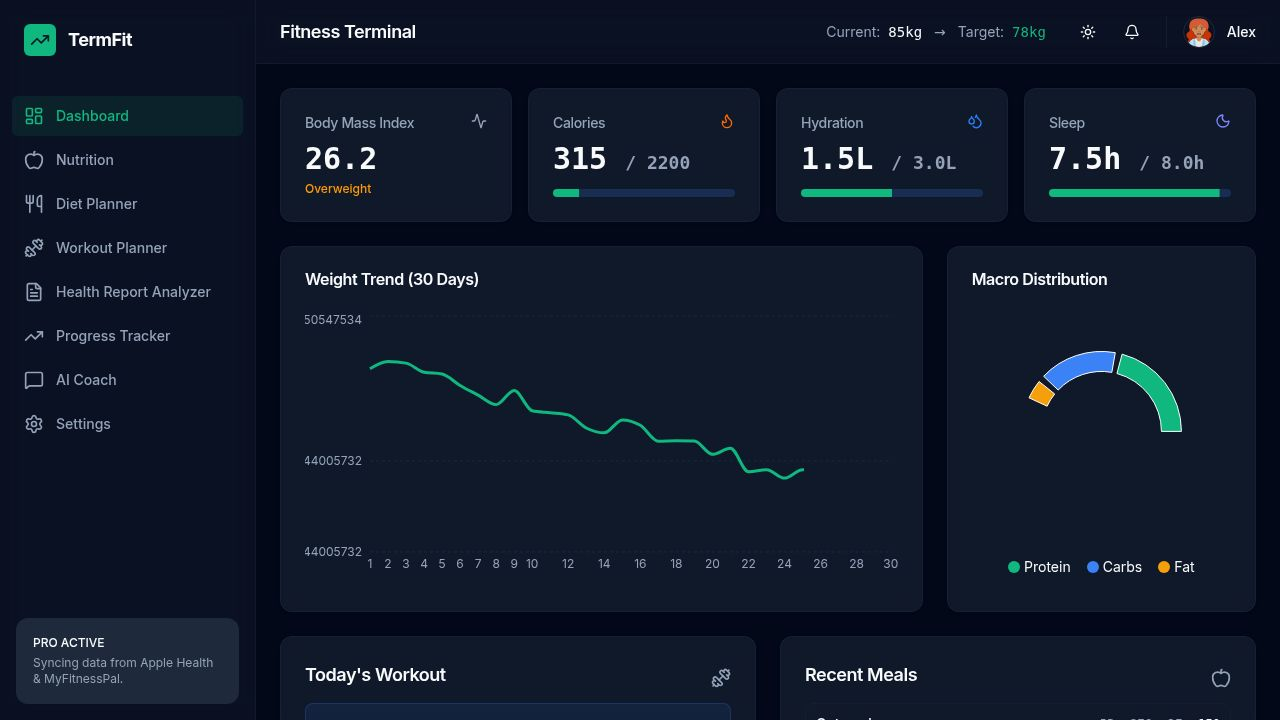
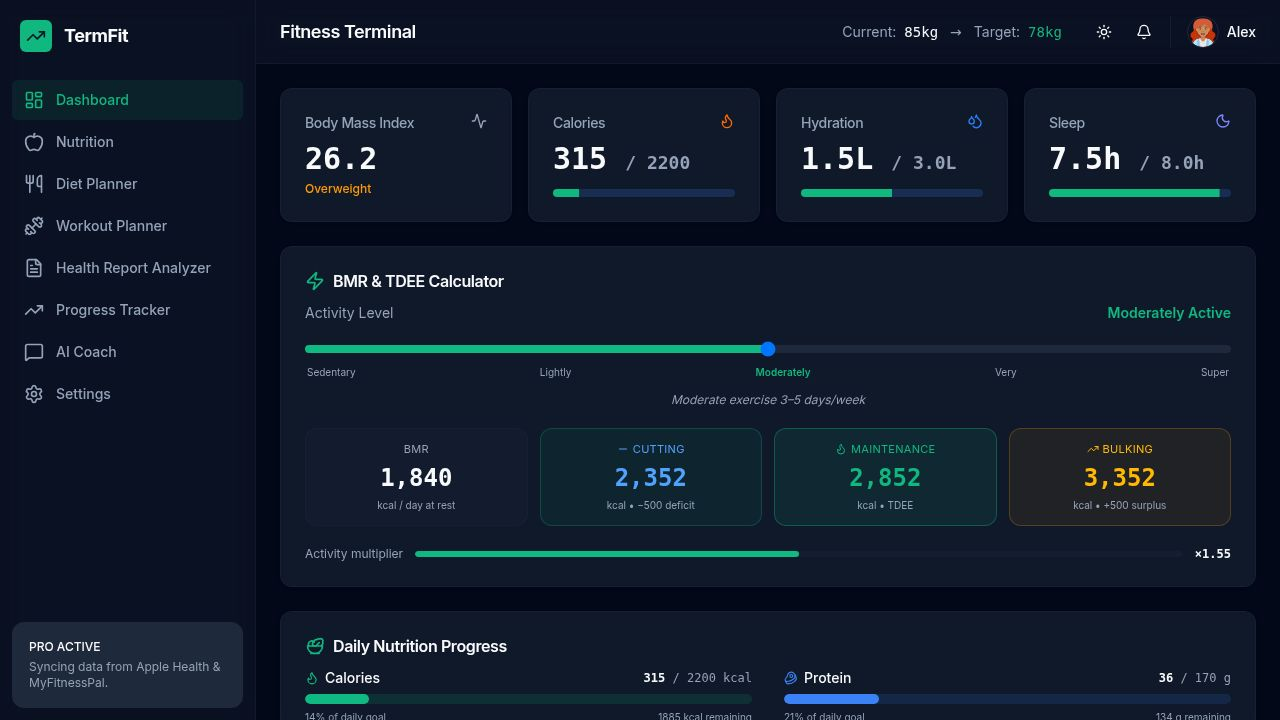
Adapt fitness dashboard build and deployment for Vercel compatibility
Update Vite configuration to gracefully handle Vercel environment variables and add a vercel.json file to define build and routing settings.

Replit-Commit-Author: Agent
Replit-Commit-Session-Id: 559fc1bd-0e06-4ad8-ae95-e0d435bf917b
Replit-Commit-Checkpoint-Type: full_checkpoint
Replit-Commit-Event-Id: 4c35f804-0af1-40bb-9805-70b1139d41f1
Replit-Commit-Screenshot-Url: https://storage.googleapis.com/screenshot-production-us-central1/d29d4df6-816a-430f-b37d-cf33e8b464bc/559fc1bd-0e06-4ad8-ae95-e0d435bf917b/oi1amAM
Replit-Helium-Checkpoint-Created: true

diff --git a/artifacts/fitness-dashboard/vite.config.ts b/artifacts/fitness-dashboard/vite.config.ts
@@ -2,54 +2,44 @@ import { defineConfig } from "vite";
 import react from "@vitejs/plugin-react";
 import tailwindcss from "@tailwindcss/vite";
 import path from "path";
-import runtimeErrorOverlay from "@replit/vite-plugin-runtime-error-modal";
+
+const isReplit = !!process.env.REPL_ID;
+const isDevServer = process.env.NODE_ENV !== "production";
 
 const rawPort = process.env.PORT;
+const port = rawPort ? Number(rawPort) : 3000;
+const basePath = process.env.BASE_PATH ?? "/";
 
-if (!rawPort) {
-  throw new Error(
-    "PORT environment variable is required but was not provided.",
+const plugins: any[] = [react(), tailwindcss()];
+
+if (isReplit) {
+  const { default: runtimeErrorOverlay } = await import(
+    "@replit/vite-plugin-runtime-error-modal"
   );
-}
+  plugins.push(runtimeErrorOverlay());
 
-const port = Number(rawPort);
-
-if (Number.isNaN(port) || port <= 0) {
-  throw new Error(`Invalid PORT value: "${rawPort}"`);
-}
-
-const basePath = process.env.BASE_PATH;
-
-if (!basePath) {
-  throw new Error(
-    "BASE_PATH environment variable is required but was not provided.",
-  );
+  if (isDevServer) {
+    const { cartographer } = await import("@replit/vite-plugin-cartographer");
+    const { devBanner } = await import("@replit/vite-plugin-dev-banner");
+    plugins.push(
+      cartographer({ root: path.resolve(import.meta.dirname, "..") }),
+      devBanner(),
+    );
+  }
 }
 
 export default defineConfig({
   base: basePath,
-  plugins: [
-    react(),
-    tailwindcss(),
-    runtimeErrorOverlay(),
-    ...(process.env.NODE_ENV !== "production" &&
-    process.env.REPL_ID !== undefined
-      ? [
-          await import("@replit/vite-plugin-cartographer").then((m) =>
-            m.cartographer({
-              root: path.resolve(import.meta.dirname, ".."),
-            }),
-          ),
-          await import("@replit/vite-plugin-dev-banner").then((m) =>
-            m.devBanner(),
-          ),
-        ]
-      : []),
-  ],
+  plugins,
   resolve: {
     alias: {
       "@": path.resolve(import.meta.dirname, "src"),
-      "@assets": path.resolve(import.meta.dirname, "..", "..", "attached_assets"),
+      "@assets": path.resolve(
+        import.meta.dirname,
+        "..",
+        "..",
+        "attached_assets",
+      ),
     },
     dedupe: ["react", "react-dom"],
   },